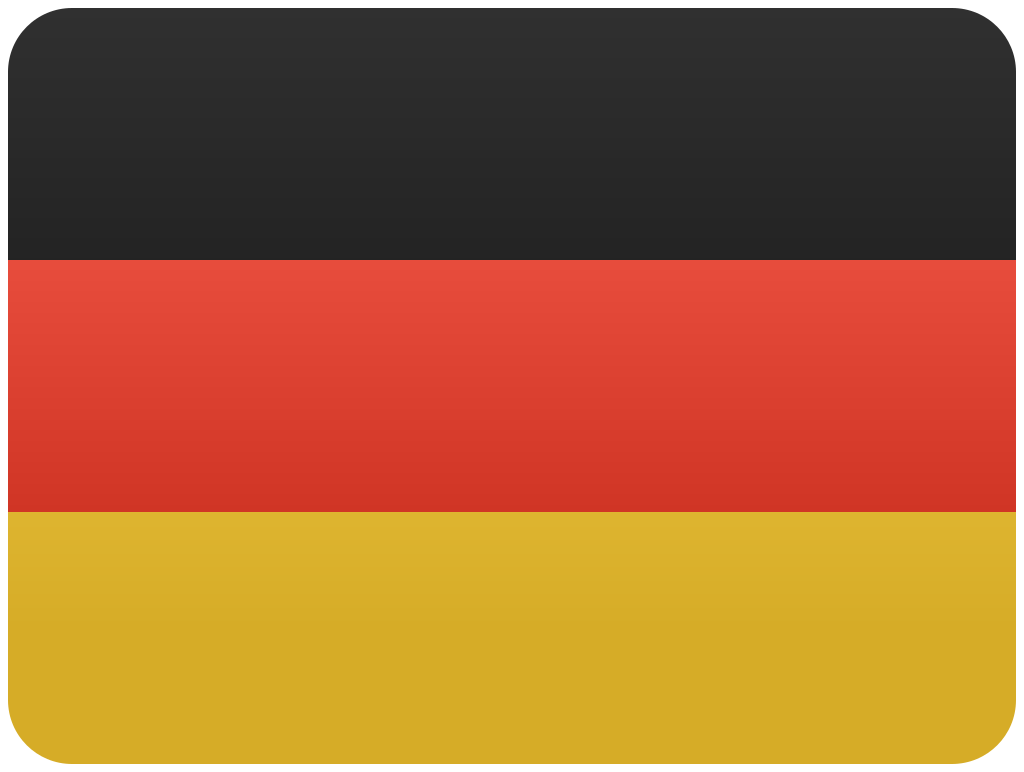
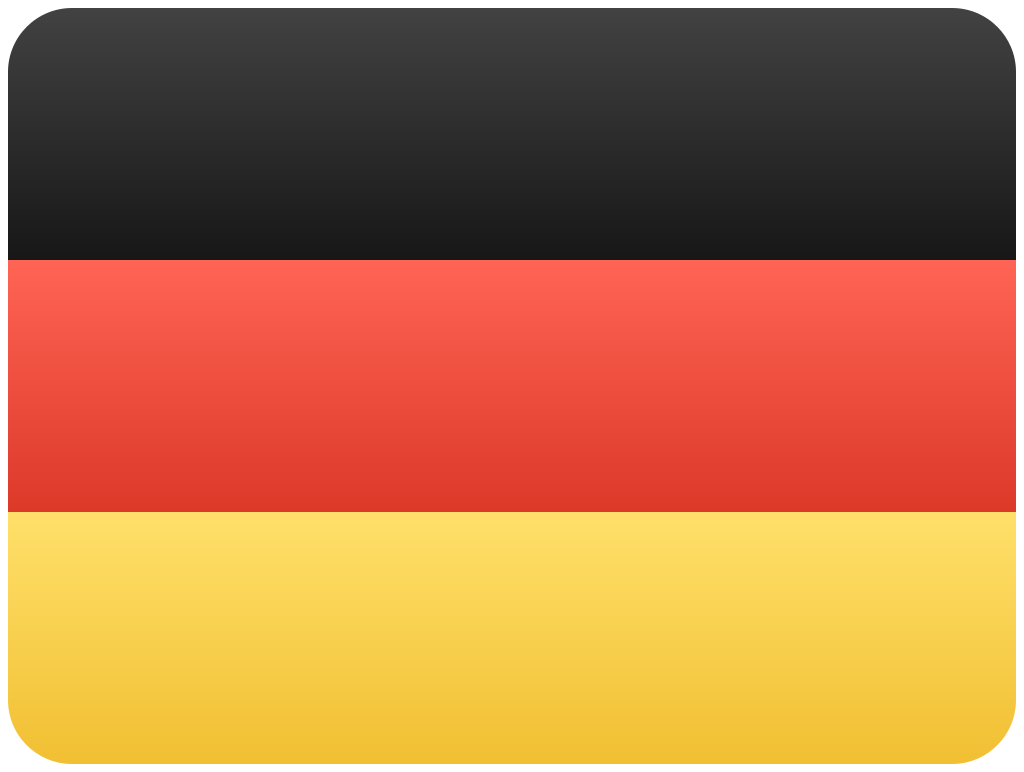
style: apply selected flags and refine UN and German shading

diff --git a/flags/README.md b/flags/README.md
@@ -1,28 +1,28 @@
 # Flag collection
 
-[Flags.json](../Flags.json) is the single index. Each country, region or international flag has one version. Duplicate variants, test exports, Photoshop drafts and unrelated organizational artwork have been removed; their original files remain in Git history. The former `FlagsRecommended.json` has been retired.
+[Flags.json](../Flags.json) contains the user-selected flags and two preserved historical artworks. [selection.json](selection.json) records the selections and refinements.
 
 ## Style
 
-All cards use a 1024 × 772 RGBA canvas, with a 1008 × 756 rounded rectangle at (8, 8), a 64 px corner radius and transparent corners. There are no external shadows or borders. The decorative 4:3 cards do not reproduce each flag's official aspect ratio or official colors.
+Redrawn flags use a 1024 × 772 transparent canvas, a 1008 × 756 card at (8, 8), and 64 px corners. Proportions and palettes are decorative rather than official specifications. The base coral and indigo palette follows the original USA-1 design.
 
-The colors and vertical shading follow the original `USA00001.png`:
+Japan and Singapore use the selected B treatment: continuous white shading, a subtle light rim and a lower edge. Singapore's crescent and stars use a separate local white gradient.
 
-| Material | Top | Bottom |
-| --- | --- | --- |
-| Coral red | `#FF6454` | `#C52A1A` |
-| Indigo blue | `#425FAD` | `#072472` |
-| White | `#FFFFFF` | `#DEDEDE` |
+Germany uses a separate gradient inside each stripe, avoiding a muddy yellow band caused by global shading. Its endpoints are charcoal `#424242` → `#171717`, coral `#FF6454` → `#DC3929`, and gold `#FFE06A` → `#F1BF32`.
 
-Red and blue reach their final shades at 82% of the card height. White stays white through the upper 34%, then shades to gray at 82%. Other colors use the same restrained vertical treatment while preserving the flag's recognizable hue. The UN retains its light blue.
+## United Nations and institution artwork
 
-`USA00001.png` has been redrawn in the preferred original palette, with 50 five-point stars in nine alternating rows of six and five, and 13 stripes. The old drawing's stripe-count error and edge artifact are removed. Versions 2, 3 and 4 are no longer part of the collection.
+- `UN.png`: refined vector redraw of the United Nations flag, with saturated cyan-to-blue shading (`#64CEFF` → `#00619E`).
+- `UN-classic.png`: the original `UNO00003.png`, preserved byte-for-byte from commit `50dd75c`.
+- `INSTITUTION.png`: the original red building/pediment icon named `UNO00001.png`, preserved byte-for-byte from commit `50dd75c`. Its neutral name describes the image without attributing it to the United Nations or a particular institution.
 
-## Sources
+The two historical raster images retain their original canvas, edges and colors. They have no editable SVG counterpart; all redrawn flags have sources in [source/](source/). Superseded files remain recoverable through Git history. Apps and UI icons are maintained independently.
 
-Every PNG has an editable counterpart in [source/](source/). Except for the explicitly drawn US stars and stripes, geometry is adapted from [lipis/flag-icons](https://github.com/lipis/flag-icons) at commit `086f7e97d657358203916dbe84f61c2bccaa81eb`. Its MIT notice is preserved in [LICENSE.flag-icons](source/LICENSE.flag-icons). Palette, gradients, card shape and exports were redrawn for this repository.
+## Sources and export
 
-With `sharp` installed, an SVG can be exported without changing its canvas:
+Except for the explicitly drawn US stars and stripes, vector geometry is adapted from [lipis/flag-icons](https://github.com/lipis/flag-icons) at commit `086f7e97d657358203916dbe84f61c2bccaa81eb`. Its MIT notice is preserved in [LICENSE.flag-icons](source/LICENSE.flag-icons).
+
+With `sharp` installed:
 
 ```sh
 node -e "require('sharp')(process.argv[1]).png().toFile(process.argv[2])" flags/source/NLD00001.svg flags/rectangle/NLD00001.png

diff --git a/README.md b/README.md
@@ -2,7 +2,7 @@
 
 ## Collections
 
-- [Flags](Flags.json): one version per location, redrawn in the USA-1 inspired palette.
+- [Flags](Flags.json): user-selected flags, with classic UN and institution artwork preserved.
 - [Flag style and editable sources](flags/README.md).
 - [App and brand icons](Apps.json): original App and brand icon collection.
 - [App icons (144px)](Apps144px.json).
